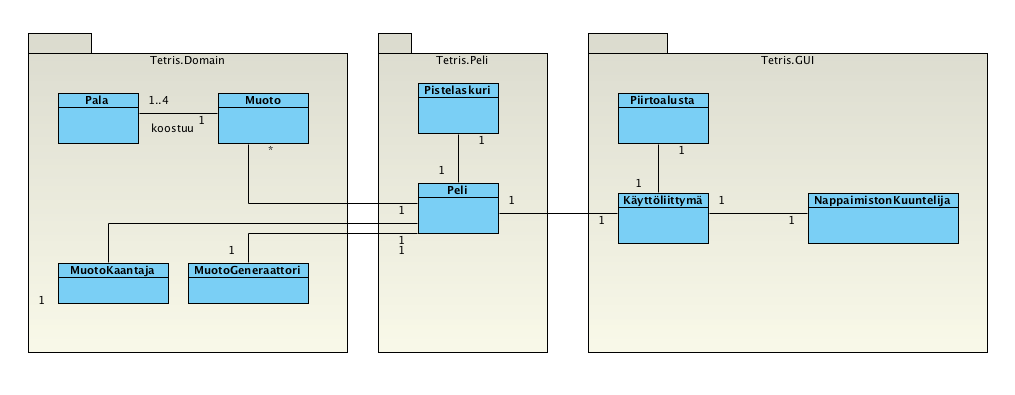
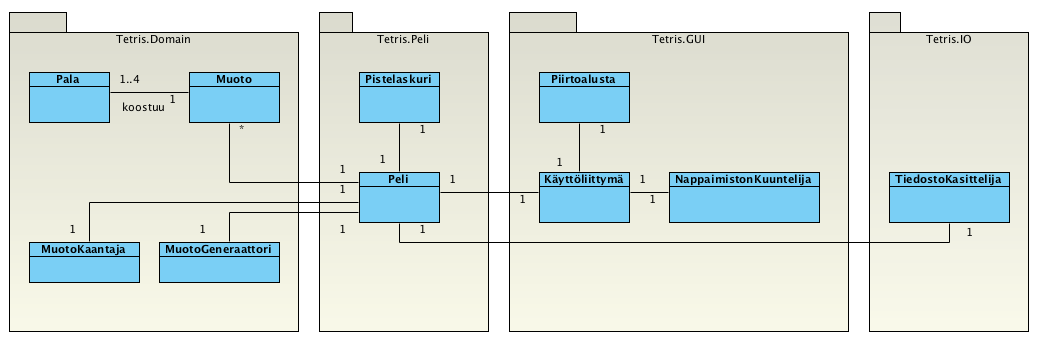
Viimeistelyä, highscore-lista korjauksia

diff --git a/Tetris/src/tetris/peli/Peli.java b/Tetris/src/tetris/peli/Peli.java
@@ -32,11 +32,11 @@ public class Peli extends Timer implements ActionListener {
     private ArrayList<Integer> highScoret;
 
     public Peli() {
-        super(1000, null);
+        super(100, null);
         this.muodot = new ArrayList<>();
         this.staattiset = new ArrayList<>();
         this.jatkuu = true;
-        this.nopeus = 1000;
+        this.nopeus = 100;
         this.laskuri = new Pistelaskuri();
         this.generaattori = new MuotoGeneraattori();
         this.tiedostoKasittelija = new TiedostoKasittelija();
@@ -49,7 +49,7 @@ public class Peli extends Timer implements ActionListener {
         lisaaMuoto();
 
         addActionListener(this);
-        setInitialDelay(1000);
+        setInitialDelay(100);
     }
 
     /**
@@ -98,7 +98,7 @@ public class Peli extends Timer implements ActionListener {
     }
 
     /**
-     * Luo uuden muodon, lisää sen muotoihin ja tekee siitä aktiivisen
+     * Luo uuden muodon, lisää sen muotoihin ja tekee siitä aktiivisen.
      */
     public void lisaaMuoto() {
         Muoto uusiMuoto = generaattori.luoUusi(120, 0);
@@ -108,14 +108,21 @@ public class Peli extends Timer implements ActionListener {
                 staattiset.add(pala);
             }
             if (aktiivinenMuoto.meneeYlarajanYli()) {
-                jatkuu = false;
-                gameOver = true;
-                highScoret.add(laskuri.getPisteet());
-                tiedostoKasittelija.tallennaHighscore(highScoret);
+                lopetaPeli();
             }
         }
         aktiivinenMuoto = uusiMuoto;
 
+    }
+    
+    /**
+     * Lopettaa käynnissä olevan pelin.
+     */
+    public void lopetaPeli() {
+        jatkuu = false;
+        gameOver = true;
+        highScoret.add(laskuri.getPisteet());
+        tiedostoKasittelija.tallennaHighscore(highScoret);
     }
 
     /**

diff --git a/Tetris/src/tetris/io/TiedostoKasittelija.java b/Tetris/src/tetris/io/TiedostoKasittelija.java
@@ -5,6 +5,8 @@ import java.io.FileWriter;
 import java.io.IOException;
 import java.util.ArrayList;
 import java.util.Scanner;
+import java.util.logging.Level;
+import java.util.logging.Logger;
 
 /**
  * Tiedostojen, lähinnä highscore -listan käsittelyyn tarkoitettu luokka.
@@ -12,8 +14,7 @@ import java.util.Scanner;
  * @author tomminikkanen
  */
 public class TiedostoKasittelija {
-
-    private FileWriter kirjoittaja;
+    
     private File highScoreList;
 
     public TiedostoKasittelija() {
@@ -24,11 +25,6 @@ public class TiedostoKasittelija {
             } catch (IOException ex) {
                 System.out.println("Tiedostoa ei saatu luotua!");
             }
-        }
-        try {
-            kirjoittaja = new FileWriter(highScoreList);
-        } catch (IOException ex) {
-            System.out.println("Kirjoittajan luonti ei onnistunut");
         }
     }
     
@@ -55,6 +51,15 @@ public class TiedostoKasittelija {
      * @param pisteet tallennettavat pisteet
      */
     public void tallennaHighscore(ArrayList<Integer> pisteet) {
-
+        FileWriter kirjoittaja;
+        try {
+            kirjoittaja = new FileWriter(highScoreList);
+            for (Integer piste : pisteet) {
+                kirjoittaja.write(""+piste+"\n");
+            }
+            kirjoittaja.close();
+        } catch (IOException ex) {
+            System.out.println("Kirjoittajan luominen ei onnistunut.");
+        }
     }
 }
